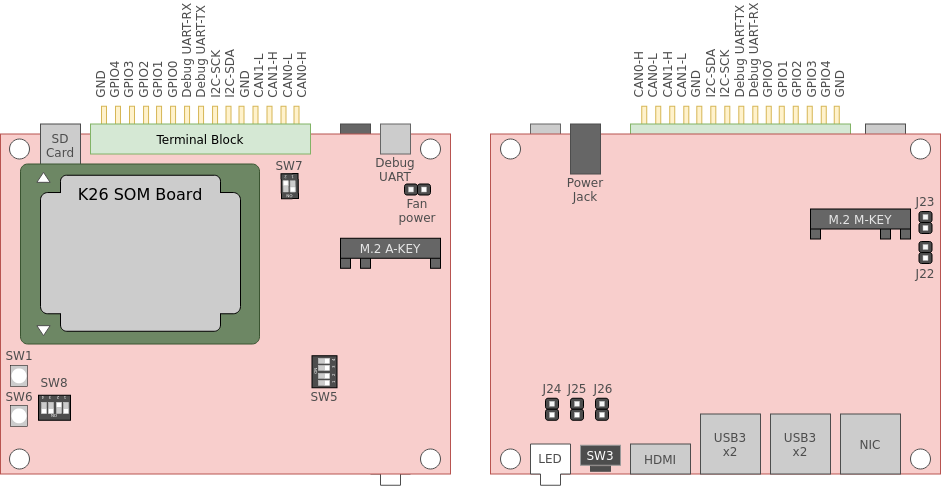
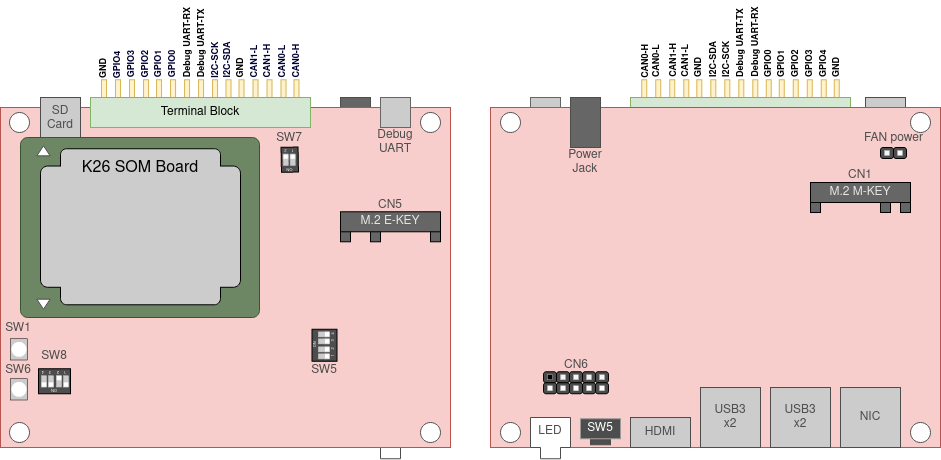
doc: update a3 carrier borad features

diff --git a/tocs/1.Hardware/hardware.md b/tocs/1.Hardware/hardware.md
@@ -17,7 +17,7 @@
   - [Processing System (PS)](#processing-system-ps)
   - [Programmable Logic (PL)](#programmable-logic-pl)
 - [Switchs on Carrier Board](#switchs-on-carrier-board)
-  - [SW3 & SW6](#sw3--sw6)
+  - [SW3 \& SW6](#sw3--sw6)
   - [SW4(LED)](#sw4led)
   - [SW5](#sw5)
     - [SW5-1,2,4](#sw5-124)
@@ -26,10 +26,7 @@
   - [SW8](#sw8)
 - [Jumpers on Carrier Board](#jumpers-on-carrier-board)
   - [Fan power](#fan-power)
-  - [J22 & J23](#j22--j23)
-  - [J24](#j24)
-  - [J25](#j25)
-  - [J26](#j26)
+  - [CN6](#cn6)
 - [Debug board](#debug-board)
   - [Debug UART](#debug-uart)
   - [JTAG](#jtag)
@@ -79,7 +76,7 @@ There are two types of IO PS & PL on carrier board, IO which from PS will be alw
 - SD Card
 - eMMC
 - UART0
-- M.2 AKEY PCIE Gen2x1
+- M.2 EKEY PCIE Gen2x1
 ## Programmable Logic (PL)
 - M.2 MKEY PCIE Gen3x4
 - CAN0
@@ -117,17 +114,12 @@ This section introduce the function of jumpers which on [the baord](#carrier-boa
 ## Fan power
 - Function : 12V & GND.
 
-## J22 & J23
-- Function : I2C for flashing clock generator.
-
-## J24
-- Function : Hardware power-on.
-
-## J25
-- Function : Hardware reset.
-
-## J26
-- Function : 5V & GND.
+## CN6
+CN6 is for innoagent connection.
+PIN9 | PIN7 | PIN5 | PIN3 | PIN1
+---|---|---|---|---
+NC | GND | GND | GND | GND |
+UARTRX | UARTTX | RST | PWR | +5V
 
 # Debug board
 ![debug_board.png](fig/debug_board.jpg)
